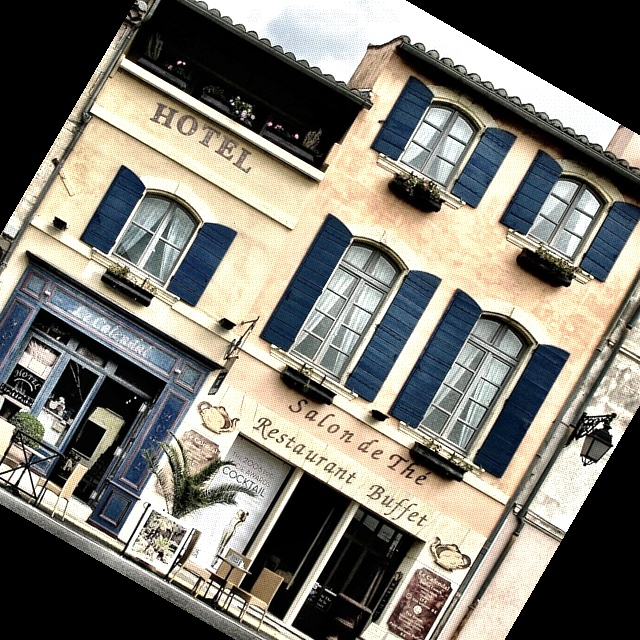
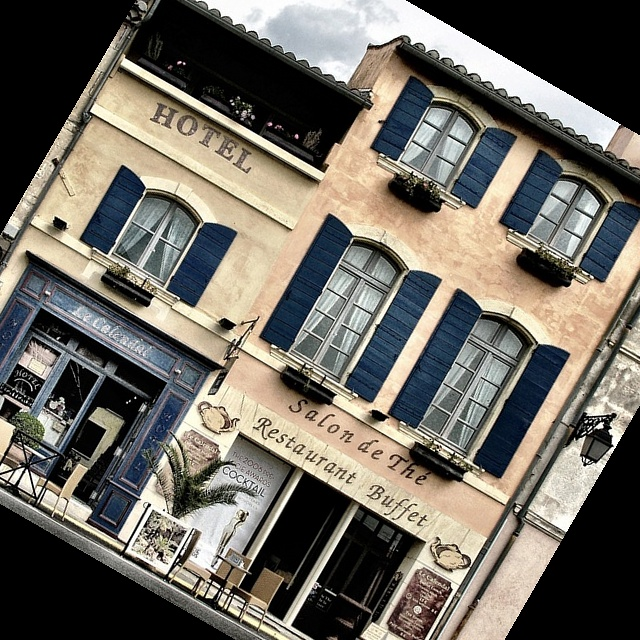
report undone

diff --git a/HW1/110550001_hw1.py b/HW1/110550001_hw1.py
@@ -2,7 +2,7 @@
 Author: jiahanyoyoyo harry620325@gmail.com
 Date: 2024-03-08 23:51:17
 LastEditors: jiahanyoyoyo harry620325@gmail.com
-LastEditTime: 2024-03-20 03:36:45
+LastEditTime: 2024-03-20 04:02:30
 FilePath: \HW1\110550001_hw1.py
 Description: 这是默认设置,请设置`customMade`, 打开koroFileHeader查看配置 进行设置: https://github.com/OBKoro1/koro1FileHeader/wiki/%E9%85%8D%E7%BD%AE
 '''
@@ -81,8 +81,8 @@ for y in range(height):
             u = pos_y - y1
             v = pos_x - x1
             tmp = 0
-            for ii in range(-1,2):
-                for jj in range(-1,2):
+            for ii in range(-1,3):
+                for jj in range(-1,3):
                     if y1+ii < 0 or x1+jj < 0 or y1+ii >= height or x1+jj >= width:
                         continue
                     tmp += image[y1+ii,x1+jj]*weights(ii-u)*weights(jj-v)
